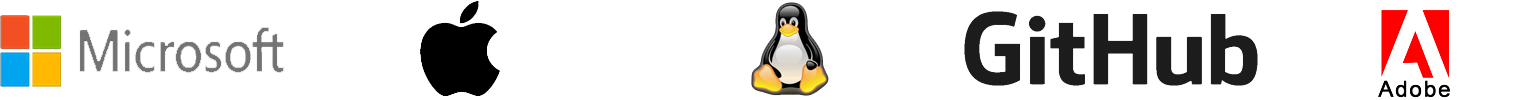
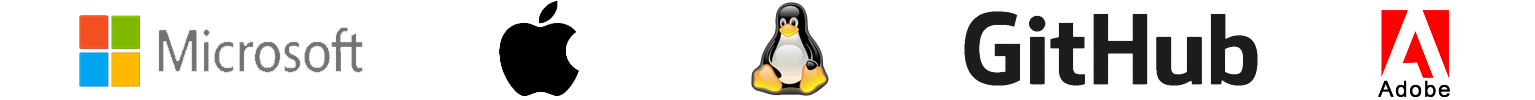
Modify footer and company slider design

Changed region(s): [[0.0, 0.15, 0.245, 0.87], [0.2756, 0.03, 0.398, 0.96]]

diff --git a/contact.html b/contact.html
@@ -145,17 +145,16 @@
                 </form>
             </div>
         </div>
-        
         <footer>
-            <div id="footer-bottom" class="col-12">
-                <div class="grid">
-                    <div class="footerInf col-6">
-                        <p>Copyright © 2015 Webear. <a href="legal.html"><b>Aviso legal</b></a> - 
-                            <a href="privacity.html"><b>Privacidad</b></a> - <a onclick=ventanaLicencia();><b>Licencia</b></a>
-                        </p>
+            <div id="footer-bottom">
+                <div class="grid2">
+                    <div class="footerInf col-12">
+                        <p>Ctra. Colmenar Viejo, Km. 12,800 - 28049 Madrid - <a href="mailto:info@webear.com"><b>info@webear.com</b></a></p>
                     </div>
-                    <div class="footerInf2 col-6">
-                        <p>Ctra. Colmenar Viejo, Km. 12,800 - 28049 Madrid - <a><b>info@Webear.com</b></a></p>
+                    <div class="footerInf col-12">
+                        <p>Copyright © 2015 Webear - <a href="legal.html"><b>Aviso legal</b></a> - 
+                            <a href="privacity.html"><b>Política de privacidad</b></a> - <a onclick=ventanaLicencia();><b>Licencia</b></a>
+                        </p>
                     </div>
                 </div>
             </div>

diff --git a/about-us.html b/about-us.html
@@ -116,15 +116,15 @@
             </article>
         </section>
         <footer>
-            <div id="footer-bottom" class="col-12">
-                <div class="grid">
-                    <div class="footerInf col-6">
-                        <p>Copyright © 2015 Webear. <a href="legal.html"><b>Aviso legal</b></a> - 
-                            <a href="privacity.html"><b>Privacidad</b></a> - <a onclick=ventanaLicencia();><b>Licencia</b></a>
-                        </p>
+            <div id="footer-bottom">
+                <div class="grid2">
+                    <div class="footerInf col-12">
+                        <p>Ctra. Colmenar Viejo, Km. 12,800 - 28049 Madrid - <a href="mailto:info@webear.com"><b>info@webear.com</b></a></p>
                     </div>
-                    <div class="footerInf2 col-6">
-                        <p>Ctra. Colmenar Viejo, Km. 12,800 - 28049 Madrid - <a><b>info@Webear.com</b></a></p>
+                    <div class="footerInf col-12">
+                        <p>Copyright © 2015 Webear - <a href="legal.html"><b>Aviso legal</b></a> - 
+                            <a href="privacity.html"><b>Política de privacidad</b></a> - <a onclick=ventanaLicencia();><b>Licencia</b></a>
+                        </p>
                     </div>
                 </div>
             </div>

diff --git a/legal.html b/legal.html
@@ -112,15 +112,15 @@
             </article>
         </section>
         <footer>
-            <div id="footer-bottom" class="col-12">
-                <div class="grid">
-                    <div class="footerInf col-6">
-                        <p>Copyright © 2015 Webear. <a href="legal.html"><b>Aviso legal</b></a> - 
-                            <a href="privacity.html"><b>Privacidad</b></a> - <a onclick=ventanaLicencia();><b>Licencia</b></a>
-                        </p>
+            <div id="footer-bottom">
+                <div class="grid2">
+                    <div class="footerInf col-12">
+                        <p>Ctra. Colmenar Viejo, Km. 12,800 - 28049 Madrid - <a href="mailto:info@webear.com"><b>info@webear.com</b></a></p>
                     </div>
-                    <div class="footerInf2 col-6">
-                        <p>Ctra. Colmenar Viejo, Km. 12,800 - 28049 Madrid - <a><b>info@Webear.com</b></a></p>
+                    <div class="footerInf col-12">
+                        <p>Copyright © 2015 Webear - <a href="legal.html"><b>Aviso legal</b></a> - 
+                            <a href="privacity.html"><b>Política de privacidad</b></a> - <a onclick=ventanaLicencia();><b>Licencia</b></a>
+                        </p>
                     </div>
                 </div>
             </div>

diff --git a/privacity.html b/privacity.html
@@ -117,15 +117,15 @@
             </article>
         </section>
         <footer>
-            <div id="footer-bottom" class="col-12">
-                <div class="grid">
-                    <div class="footerInf col-6">
-                        <p>Copyright © 2015 Webear. <a href="legal.html"><b>Aviso legal</b></a> - 
-                            <a href="privacity.html"><b>Privacidad</b></a> - <a onclick=ventanaLicencia();><b>Licencia</b></a>
-                        </p>
+            <div id="footer-bottom">
+                <div class="grid2">
+                    <div class="footerInf col-12">
+                        <p>Ctra. Colmenar Viejo, Km. 12,800 - 28049 Madrid - <a href="mailto:info@webear.com"><b>info@webear.com</b></a></p>
                     </div>
-                    <div class="footerInf2 col-6">
-                        <p>Ctra. Colmenar Viejo, Km. 12,800 - 28049 Madrid - <a><b>info@Webear.com</b></a></p>
+                    <div class="footerInf col-12">
+                        <p>Copyright © 2015 Webear - <a href="legal.html"><b>Aviso legal</b></a> - 
+                            <a href="privacity.html"><b>Política de privacidad</b></a> - <a onclick=ventanaLicencia();><b>Licencia</b></a>
+                        </p>
                     </div>
                 </div>
             </div>

diff --git a/services.html b/services.html
@@ -168,15 +168,15 @@
             </article>
         </section>
         <footer>
-            <div id="footer-bottom" class="col-12">
-                <div class="grid">
-                    <div class="footerInf col-6">
-                        <p>Copyright © 2015 Webear. <a href="legal.html"><b>Aviso legal</b></a> - 
-                            <a href="privacity.html"><b>Privacidad</b></a> - <a onclick=ventanaLicencia();><b>Licencia</b></a>
-                        </p>
+            <div id="footer-bottom">
+                <div class="grid2">
+                    <div class="footerInf col-12">
+                        <p>Ctra. Colmenar Viejo, Km. 12,800 - 28049 Madrid - <a href="mailto:info@webear.com"><b>info@webear.com</b></a></p>
                     </div>
-                    <div class="footerInf2 col-6">
-                        <p>Ctra. Colmenar Viejo, Km. 12,800 - 28049 Madrid - <a><b>info@Webear.com</b></a></p>
+                    <div class="footerInf col-12">
+                        <p>Copyright © 2015 Webear - <a href="legal.html"><b>Aviso legal</b></a> - 
+                            <a href="privacity.html"><b>Política de privacidad</b></a> - <a onclick=ventanaLicencia();><b>Licencia</b></a>
+                        </p>
                     </div>
                 </div>
             </div>

diff --git a/projects.html b/projects.html
@@ -136,18 +136,18 @@
             });
         </script>
 	</section>
-	<footer>	
-		<div id="footer-bottom" class="col-12">
-            <div class="grid">
-                <div class="footerInf col-6">
-                    <p>Copyright © 2015 Webear. <a href="legal.html"><b>Aviso legal</b></a> - 
-                        <a href="privacity.html"><b>Privacidad</b></a> - <a onclick=ventanaLicencia();><b>Licencia</b></a>
-                    </p>
-                </div>
-                <div class="footerInf2 col-6">
-                    <p>Ctra. Colmenar Viejo, Km. 12,800 - 28049 Madrid - <a><b>info@Webear.com</b></a></p>
-                </div>
-            </div>
+	<footer>
+		<div id="footer-bottom">
+			<div class="grid2">
+				<div class="footerInf col-12">
+                    <p>Ctra. Colmenar Viejo, Km. 12,800 - 28049 Madrid - <a href="mailto:info@webear.com"><b>info@webear.com</b></a></p>
+				</div>
+				<div class="footerInf col-12">
+					<p>Copyright © 2015 Webear - <a href="legal.html"><b>Aviso legal</b></a> - 
+						<a href="privacity.html"><b>Política de privacidad</b></a> - <a onclick=ventanaLicencia();><b>Licencia</b></a>
+					</p>
+				</div>
+			</div>
 		</div>
 	</footer>
   </body>

diff --git a/index.html b/index.html
@@ -247,18 +247,18 @@
 			</div>
 		</article>
 	</section>
-	<footer>	
-		<div id="footer-bottom" class="col-12">
-            <div class="grid">
-                <div class="footerInf col-6">
-                    <p>Copyright © 2015 Webear. <a href="legal.html"><b>Aviso legal</b></a> - 
-                        <a href="privacity.html"><b>Privacidad</b></a> - <a onclick=ventanaLicencia();><b>Licencia</b></a>
-                    </p>
-                </div>
-                <div class="footerInf2 col-6">
-                    <p>Ctra. Colmenar Viejo, Km. 12,800 - 28049 Madrid - <a><b>info@Webear.com</b></a></p>
-                </div>
-            </div>
+	<footer>
+		<div id="footer-bottom">
+			<div class="grid2">
+				<div class="footerInf col-12">
+                	<p>Ctra. Colmenar Viejo, Km. 12,800 - 28049 Madrid - <a href="mailto:info@webear.com"><b>info@webear.com</b></a></p>
+				</div>
+				<div class="footerInf col-12">
+					<p>Copyright © 2015 Webear - <a href="legal.html"><b>Aviso legal</b></a> - 
+						<a href="privacity.html"><b>Política de privacidad</b></a> - <a onclick=ventanaLicencia();><b>Licencia</b></a>
+					</p>
+				</div>
+			</div>
 		</div>
 	</footer>
   </body>

diff --git a/css/index.css b/css/index.css
@@ -60,8 +60,29 @@
 #home #about #about-inf b {
 	font-weight: 600;
 }
-
-/* estilos slider empresas */
+#home #empresas{
+	width:960px;
+	overflow: hidden;
+	height: 122px;
+    border: 1px solid #464646;
+    border-radius: 30px;
+    padding: 10px 0;
+	margin-bottom: 20px;
+}
+#home #titulo-empresas{
+	text-align: center;
+}
+#home #empresas img{
+	-webkit-transition: 2s ease-out;
+    -moz-transition: 2s ease-out;
+    transition: 2s ease-out;
+}
+/* Multiplicar por 320 cada logo "de más" que haya en la imagen de empresas */
+#home #empresas img:hover{
+	-moz-transform: translateX(-640px);
+    -webkit-transform: translateX(-640px);
+    transform: translateX(-640px);
+}
 
 @media only screen and (max-width: 1050px) {
 	#home #slider-title{

diff --git a/css/main.css b/css/main.css
@@ -240,39 +240,27 @@ section a:hover{
 	color: #464646;
 	text-decoration: underline;
 }
-
 footer #footer-bottom {
 	background-color: #464646;
 	color: #f7f7f7;
+	padding: 15px 0;
 }
-footer .footerInf, footer .footerInf2 {
-	float: left;
-	padding: 0;
+footer .footerInf {
+	padding: 10px 0;
 	margin: auto 0;
+	text-align: center;
 }
-
-footer .footerInf2 {
-	text-align: right;
-}
-footer .footerInf2 span {
-    position: relative;
-    top: -3px;
-}
-
 footer p {
 	margin: 0;
 }
-
 footer a {
 	color: #fff;
-}
-	
+}	
 footer a:hover {
 	color: #d0d0d0;
 	text-decoration:underline;
 	cursor:pointer;
 }
-
 footer a:active{
 	color: #fff;
 	text-decoration: underline;

diff --git a/css/empresas.css b/css/empresas.css
@@ -1,7 +1,10 @@
 #empresas{
 	width:960px;
 	overflow: hidden;
-	height: 100px;
+	height: 122px;
+    border: 1px solid #464646;
+    border-radius: 30px;
+    padding: 10px 0;
 }
 #titulo-empresas{
 	text-align: center;

diff --git a/css/social-sidebar.css b/css/social-sidebar.css
@@ -16,7 +16,7 @@ ul {
 #sticky-social {
    left: 0;
    position: fixed;
-   top: 500px;
+   top: 35px;
    z-index: 999;
 }
 #sticky-social a {
